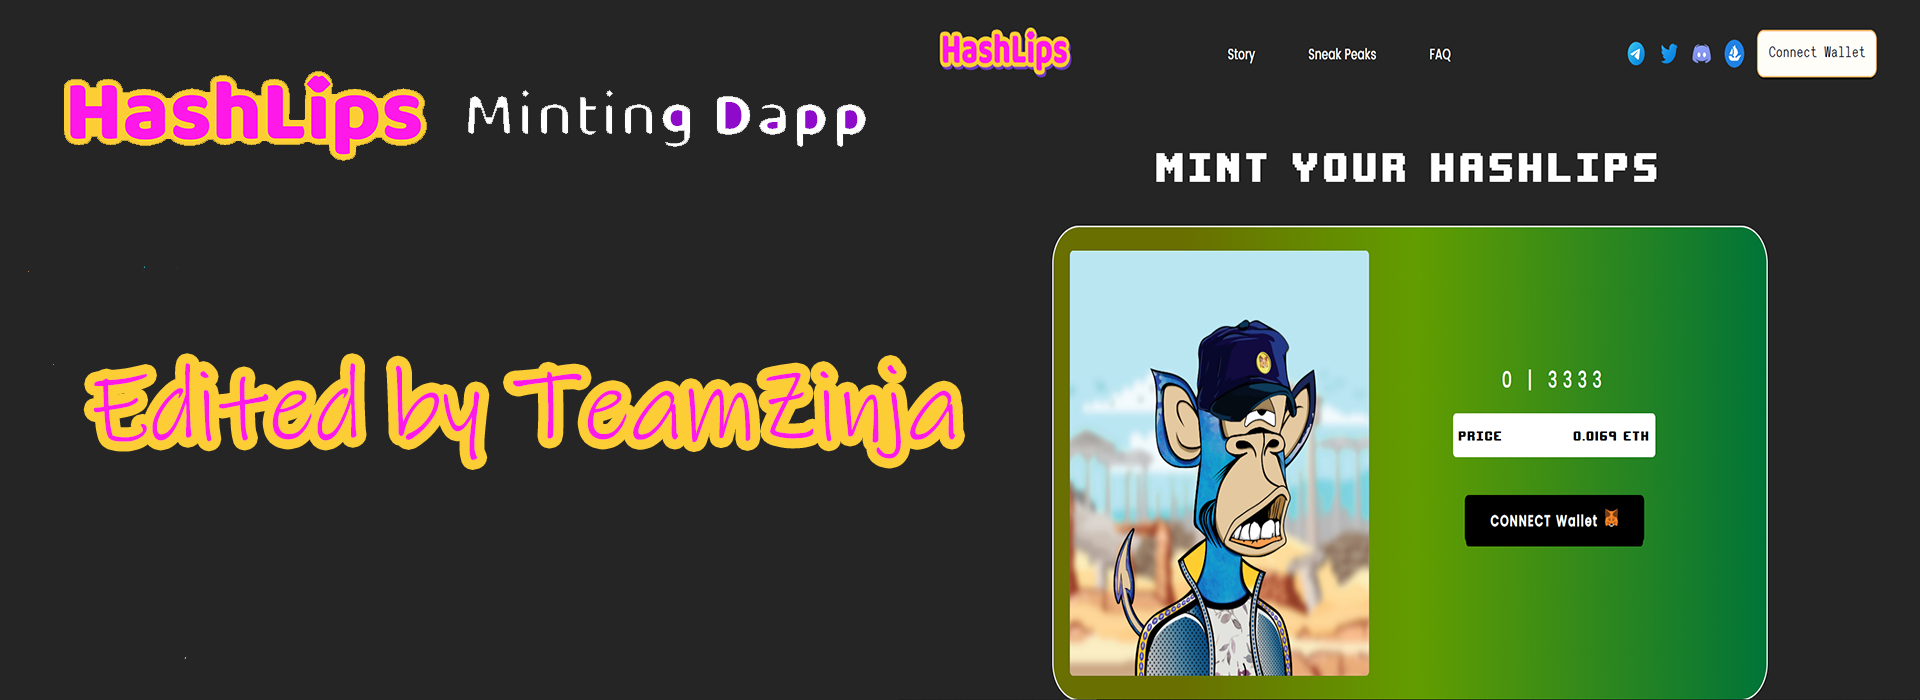
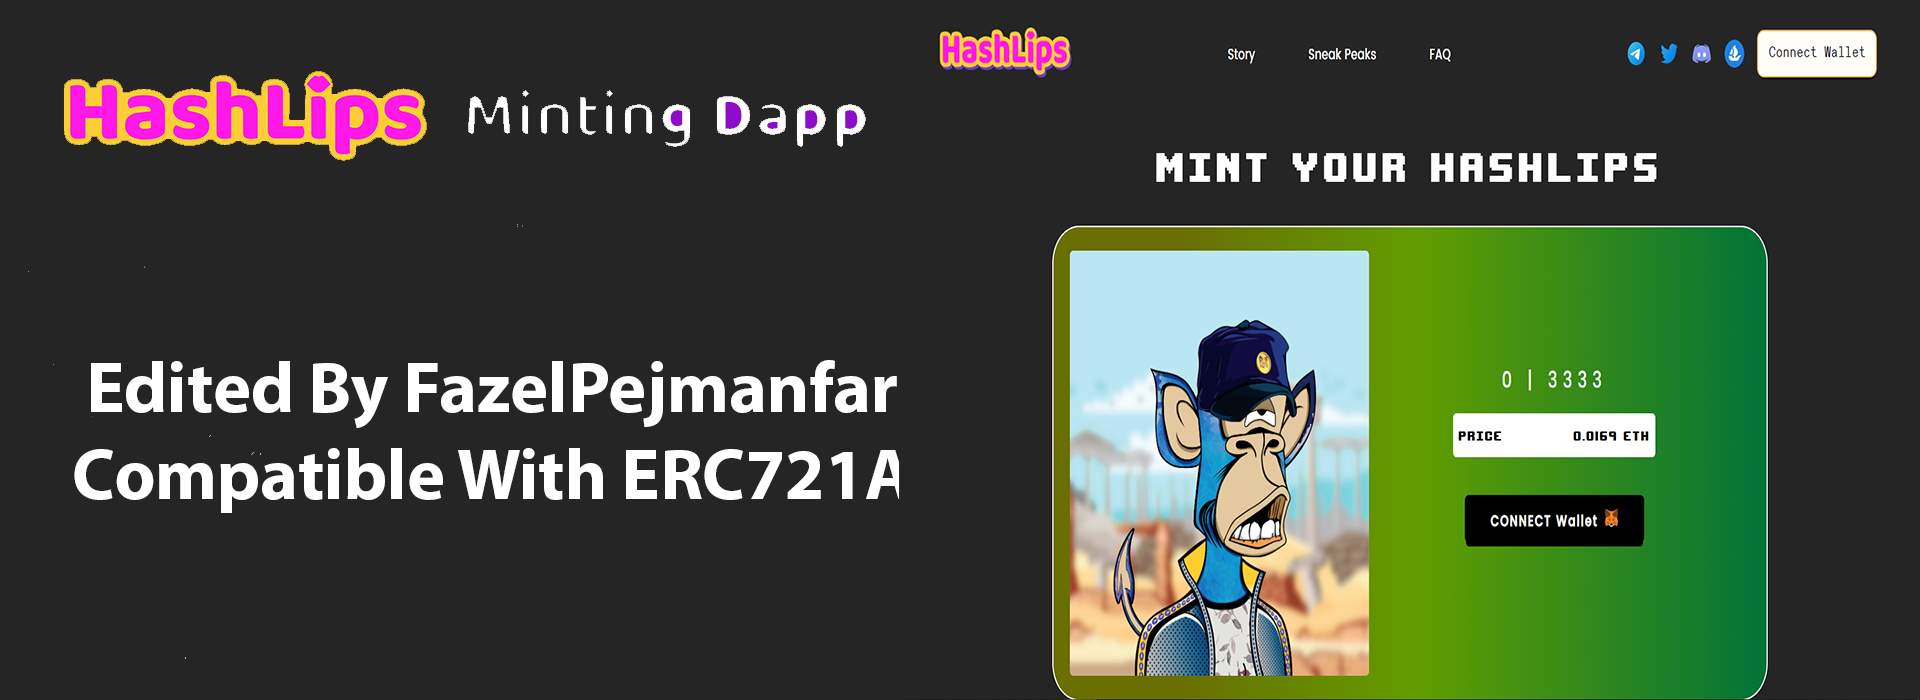
new

Changed region(s): [[0.0312, 0.51, 0.5, 0.72]]

diff --git a/README.md b/README.md
@@ -4,18 +4,18 @@
 
 All the code in these repos was created and explained by HashLips on the main YouTube channel.
 
-Edited By TeamZinja and compatible with ERC721A
+Edited By Fazel Pejmanfar and compatible with ERC721A
 
 To find out more please visit:
 
 [📺 YouTube](https://www.youtube.com/channel/UC1LV4_VQGBJHTJjEWUmy8nA)
 
-[👄 Hashlips Discord](https://discord.com/invite/qh6MWhMJDN)
+[👄 Hashlips Discord](https://discord.com/invite/qh6MWhMJDN) (You Can Find Me in Hashlips Server)
 
 
-# HashLips NFT minting dapp (Edits By TeamZinja)🔥
+# HashLips NFT minting dapp (Edits By FazelPejmanfar)🔥
 
-![](https://github.com/ZinjaGaming/Sheep/blob/main/nft-minting-dapp-master/banner.png)
+![](https://github.com/fazelpejmanfar/nft-minting-dapp/blob/master/banner.png)
 
 This repo provides a nice and easy way for linking an existing NFT smart contract to this minting dapp. There are two ways of using this repo, you can go the simple route or the more complex one.
 
@@ -36,7 +36,7 @@ The more complex route allows you to add additional functionality if you are com
 If you are cloning the project then run this first, otherwise you can download the source code on the release page and skip this step.
 
 ```sh
-git clone https://github.com/ZinjaGaming/Sheep.git
+git clone https://github.com/fazelpejmanfar/nft-minting-dapp.git
 ```
 
 Make sure you have node.js installed so you can use npm, then run:
